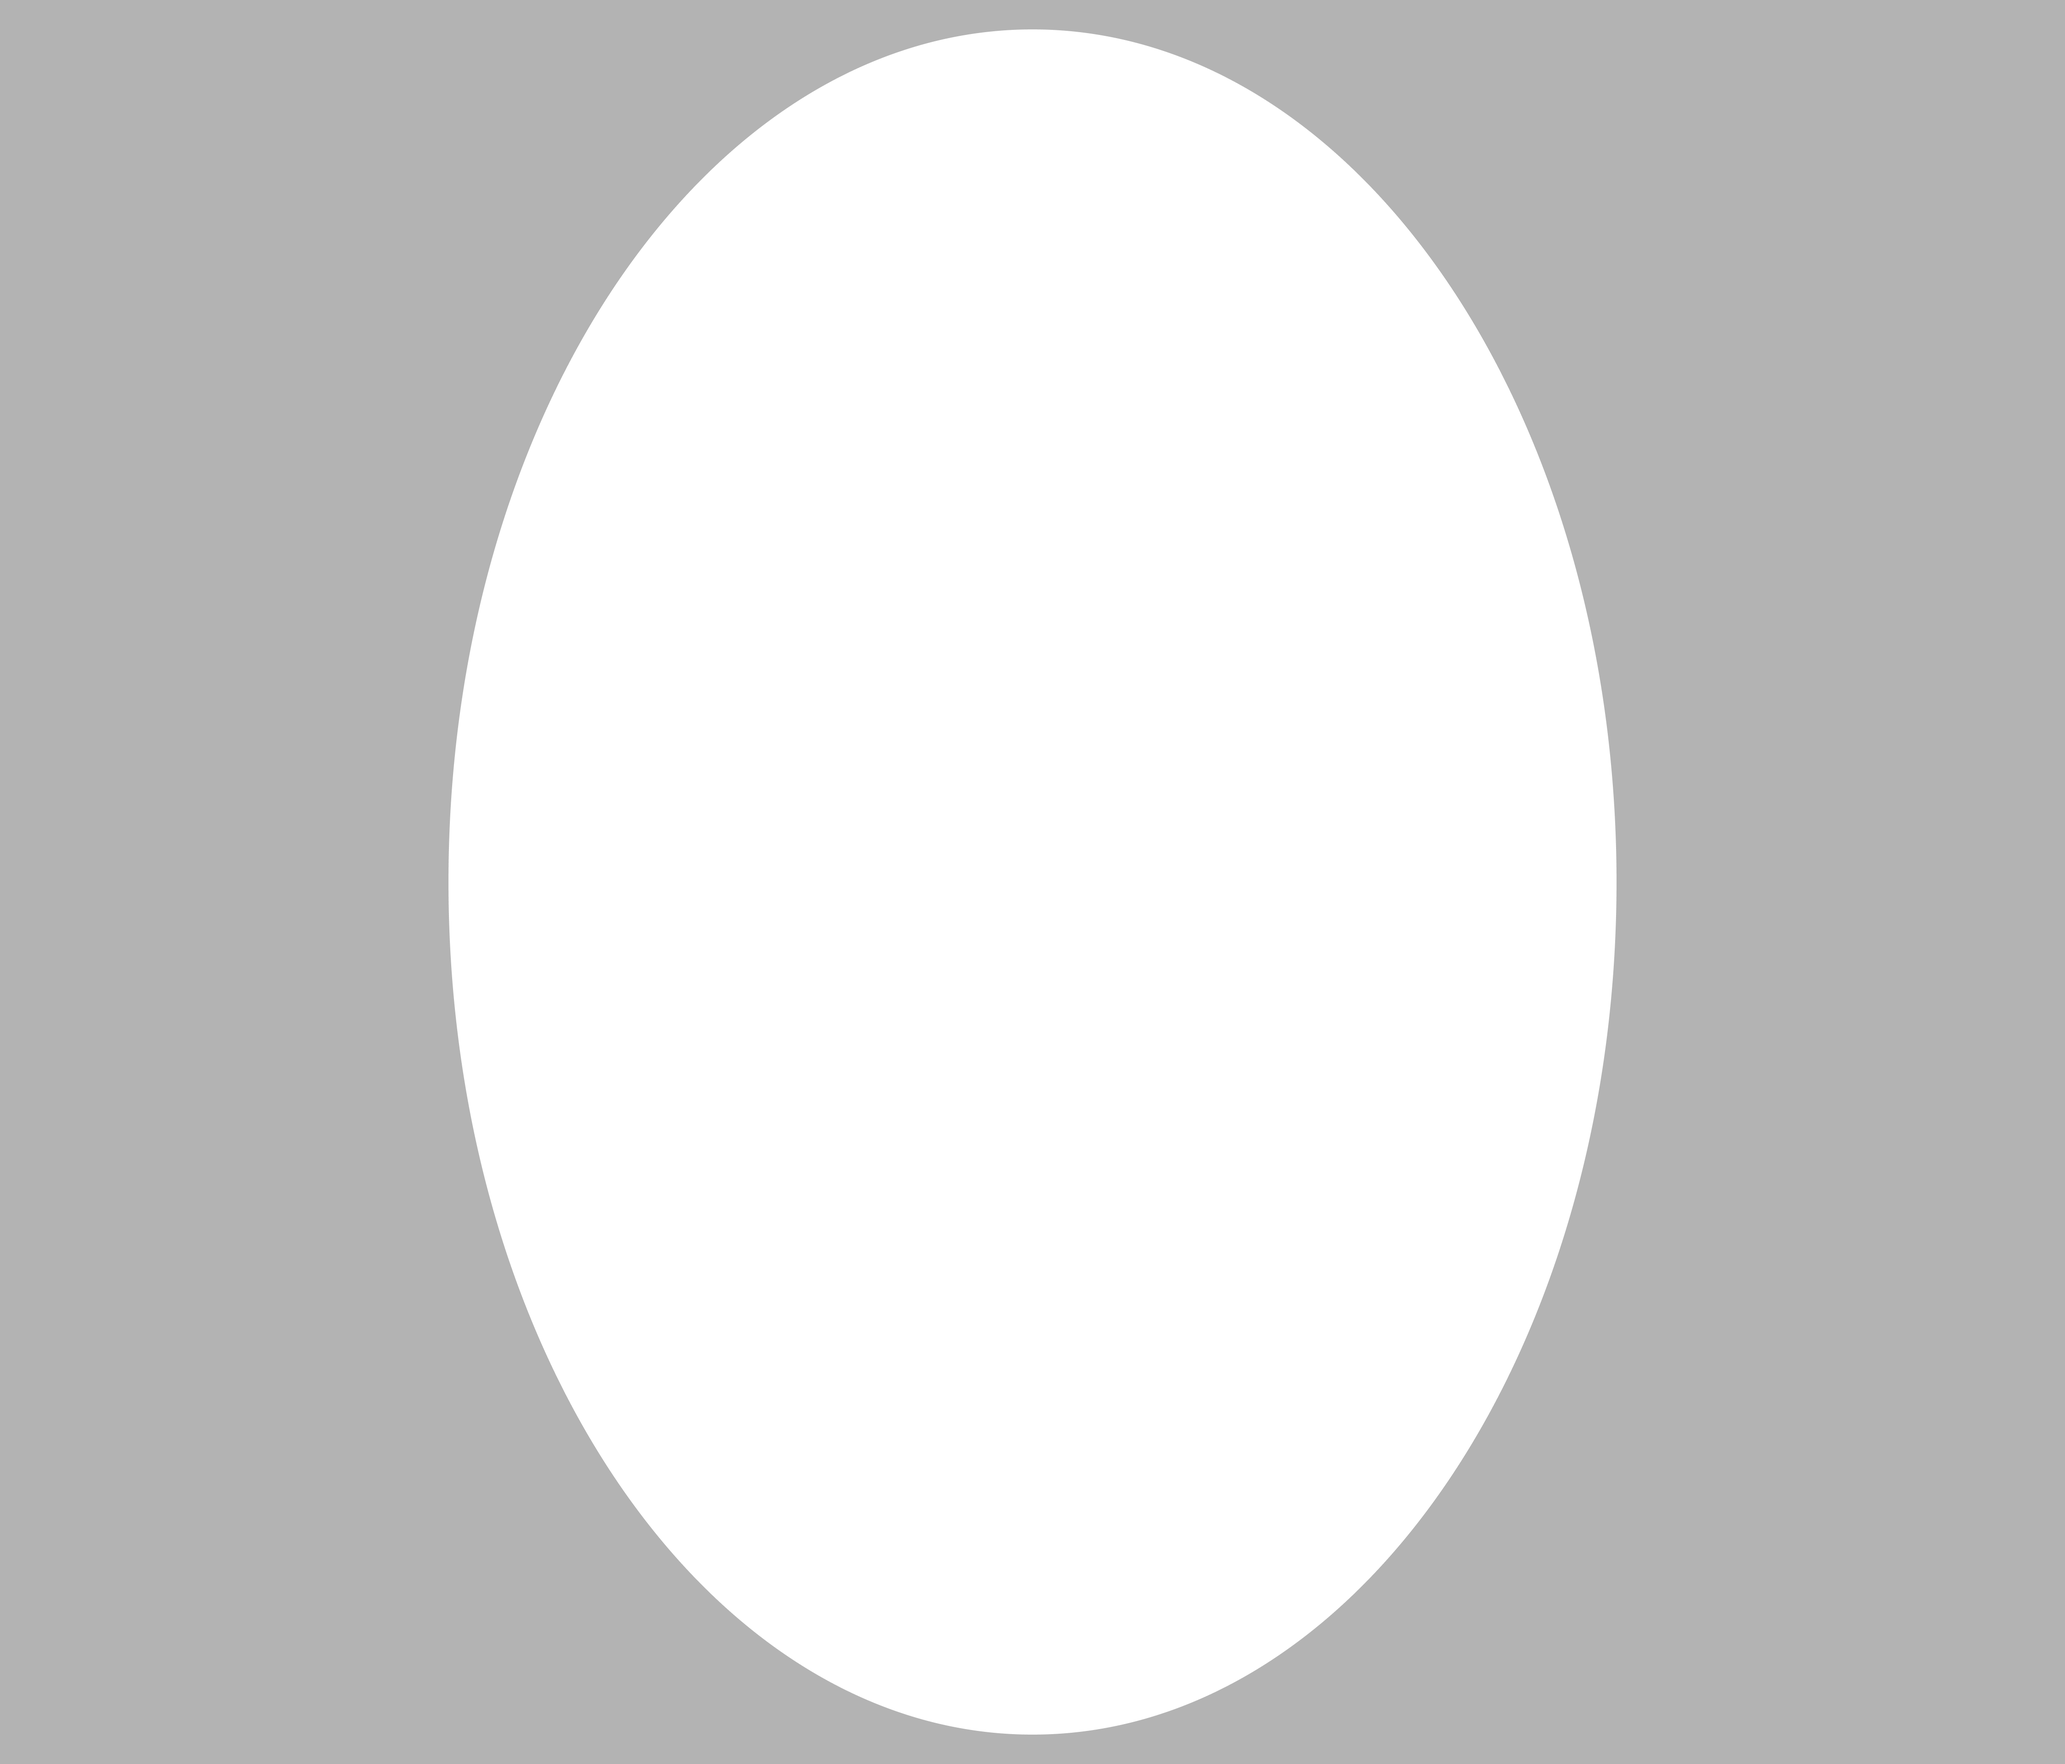
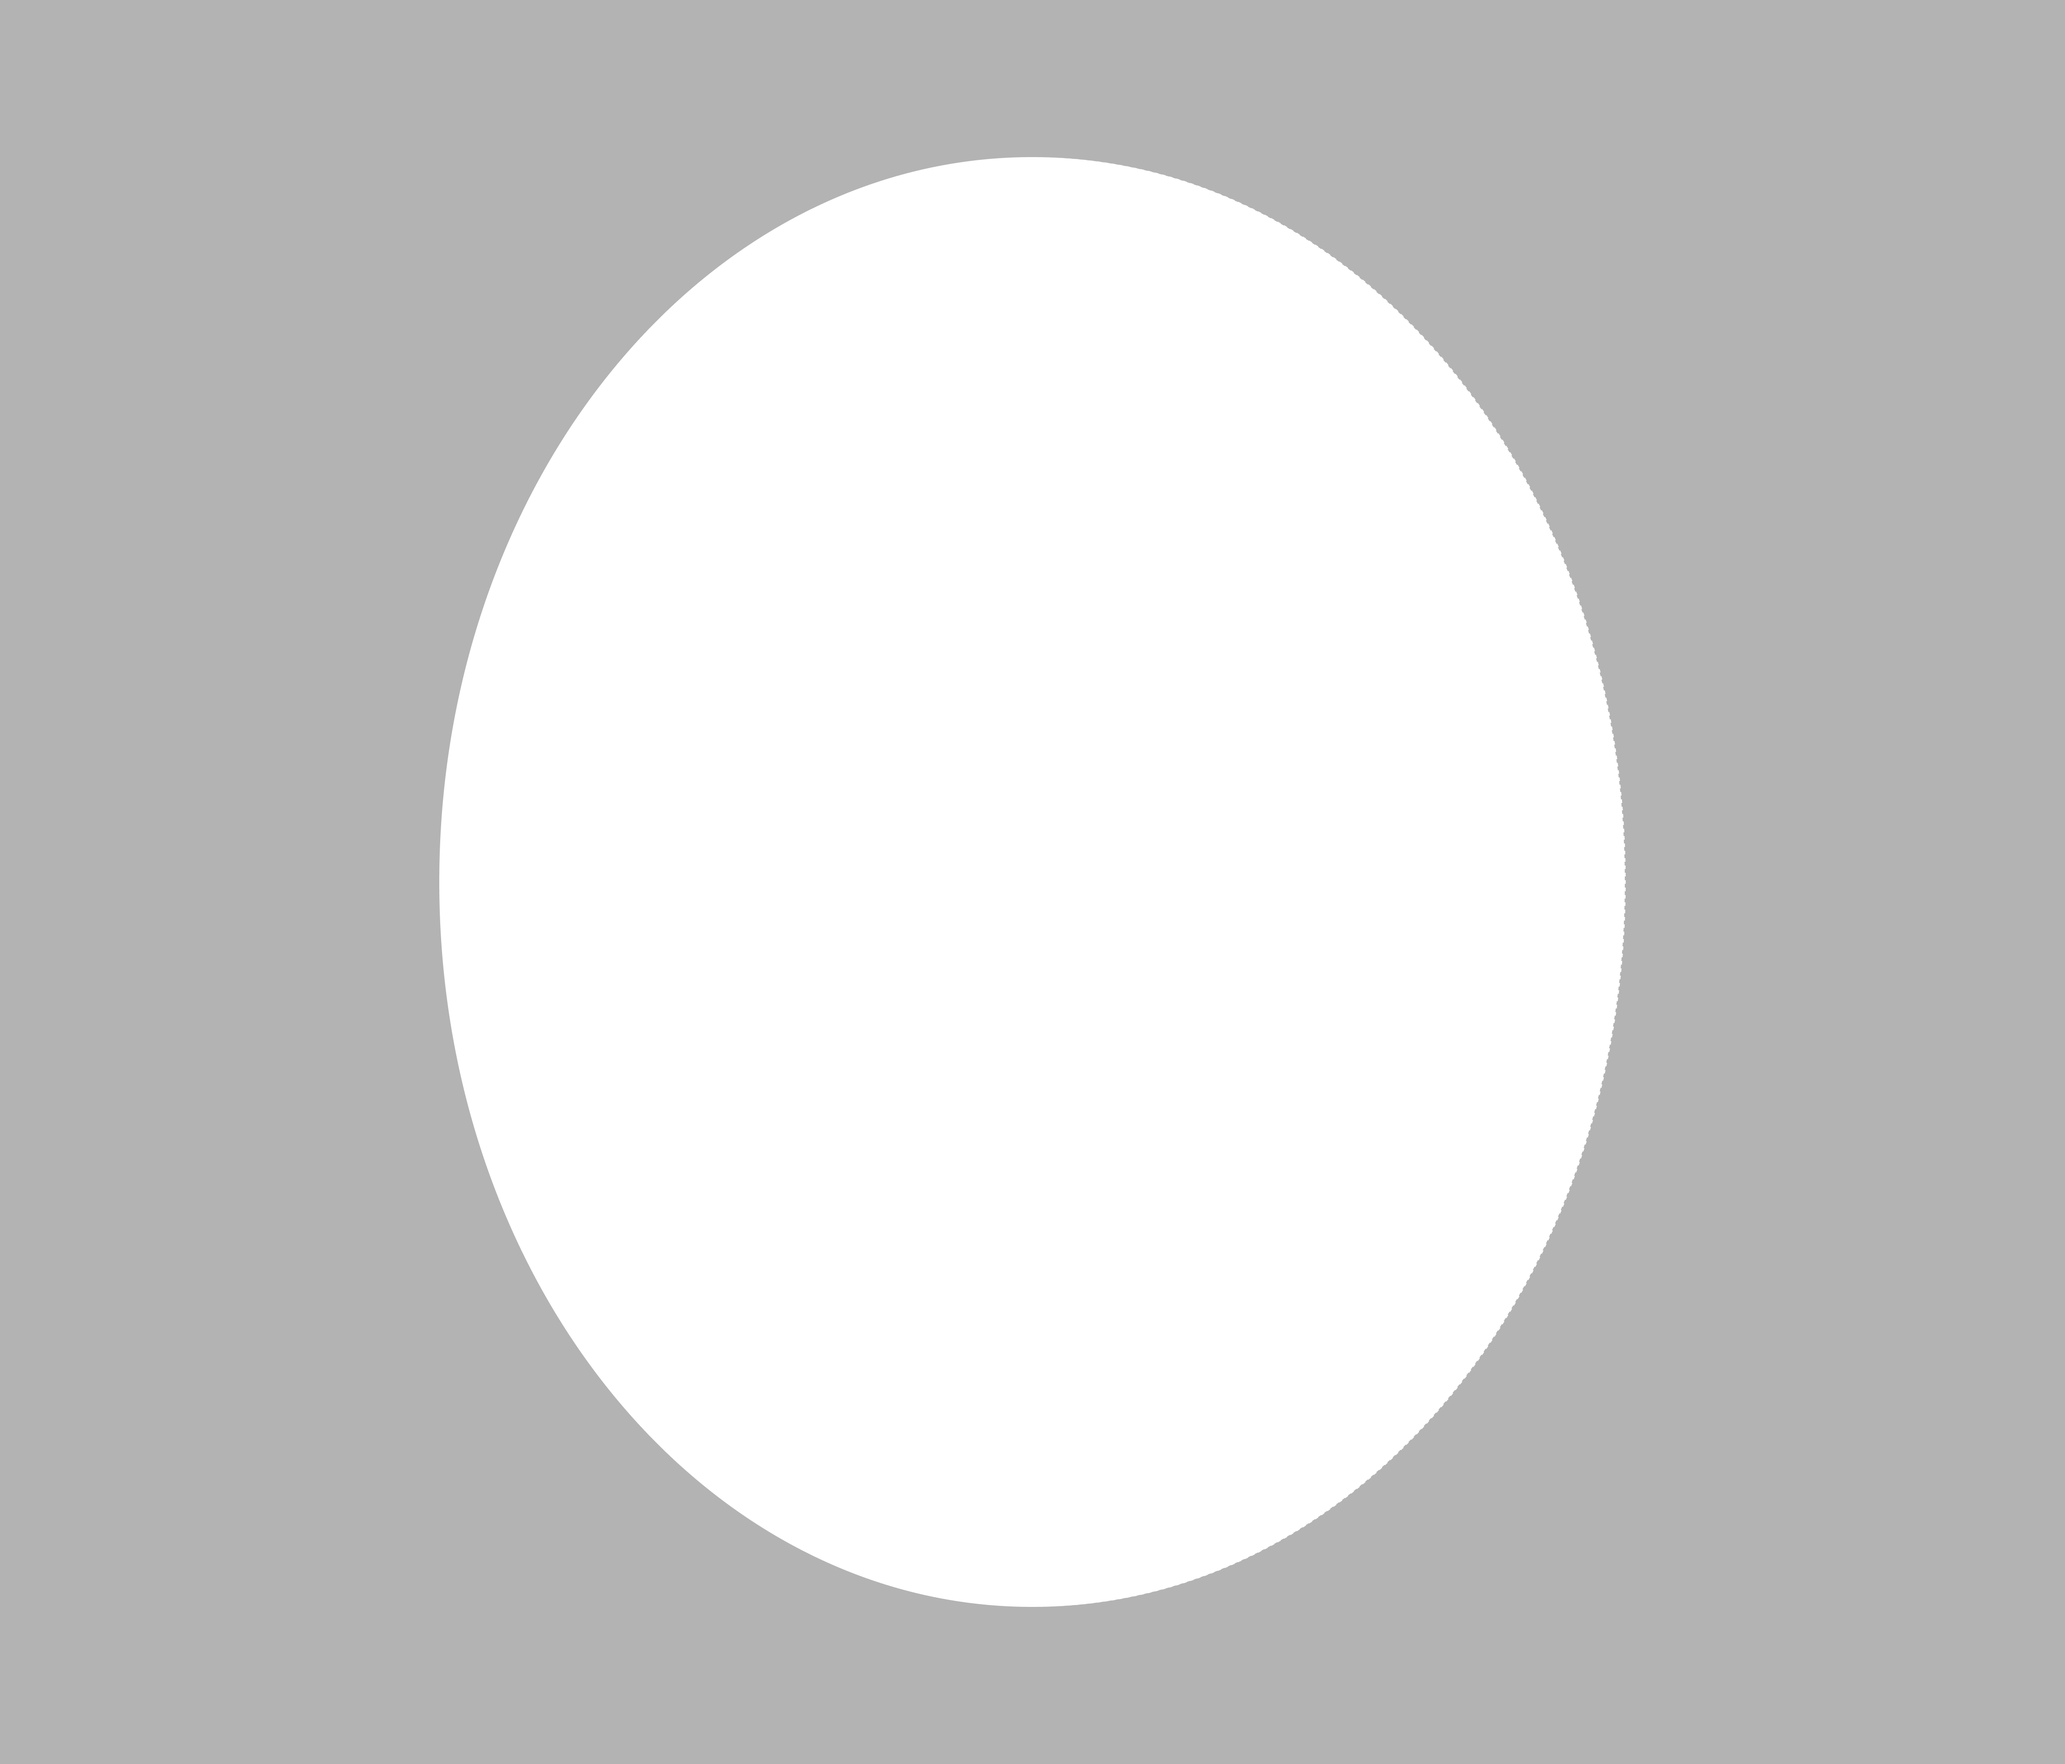
MOD-800: fix screen size | made mobile screen biger

diff --git a/src/modclub_assets/src/utils/constant.ts b/src/modclub_assets/src/utils/constant.ts
@@ -41,6 +41,7 @@ export const MESSAGE_FOR_USER_VIDEO_RECORD =
   "During the recording, it's crucial that your face remains within the outlined oval. If you happen to move out of the oval's boundaries while recording, the process will automatically stop, and you'll need to start over. Please make sure to keep your face inside the oval to ensure the best quality of your video.";
 export const VIDEO_WIDTH = 667;
 export const VIDEO_HEIGHT = 500;
+export const VIDEO_HEIGHT_MOBILE = 665;
 export const VIDEO_SUPPORT_MESSAGE =
   "Your browser does not support the video tag.";
 export const VIDEO_POSITION_TEXT = "Please position your face at the center";
@@ -54,7 +55,7 @@ export const DETECTION_Y_TOP = 80;
 
 // Mobile detection coords for FaceAPI
 export const DETECTION_X_RIGHT_MOBILE = 110;
-export const DETECTION_X_LEFT_MOBILE = 260;
+export const DETECTION_X_LEFT_MOBILE = 210;
 export const DETECTION_Y_BOTTOM_MOBILE = 305;
 export const DETECTION_Y_TOP_MOBILE = 80;
 

diff --git a/src/modclub_assets/src/components/auth/poh/WebcamInterface/index.tsx b/src/modclub_assets/src/components/auth/poh/WebcamInterface/index.tsx
@@ -5,6 +5,7 @@ import Webcam from "react-webcam";
 import {
   VIDEO_WIDTH,
   VIDEO_HEIGHT,
+  VIDEO_HEIGHT_MOBILE,
   VIDEO_POSITION_TEXT,
   VIDEO_MODELS_LOADING,
 } from "../../../../utils/constant";
@@ -64,7 +65,7 @@ const WebcamInterface: ForwardRefRenderFunction<WebcamRef, WebcamProps> = (
       forceScreenshotSourceSize
       videoConstraints={{
         width: VIDEO_WIDTH,
-        height: VIDEO_HEIGHT,
+        height: isMobileDevice() ? VIDEO_HEIGHT_MOBILE : VIDEO_HEIGHT,
       }}
     />
   </div>

diff --git a/src/modclub_assets/src/components/auth/poh/VideoWrap/styles.scss b/src/modclub_assets/src/components/auth/poh/VideoWrap/styles.scss
@@ -13,7 +13,7 @@
 
 .video-wrap {
   position: relative;
-  padding-bottom: 75%;
+  padding-bottom: 100%;
 
   &_webcam {
     @include absolute-full;
@@ -60,6 +60,12 @@
   &_preview-button {
     position: absolute;
     right: calc(50% + 2.5rem);
+  }
+}
+
+@media screen and (min-width: 480px) {
+  .video-wrap {
+    padding-bottom: 75%;
   }
 }
 
